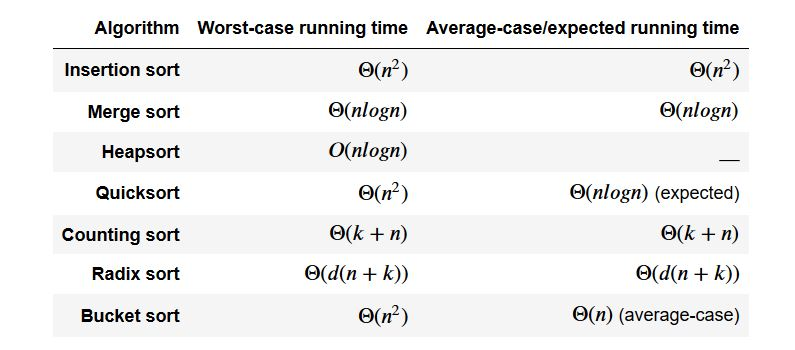
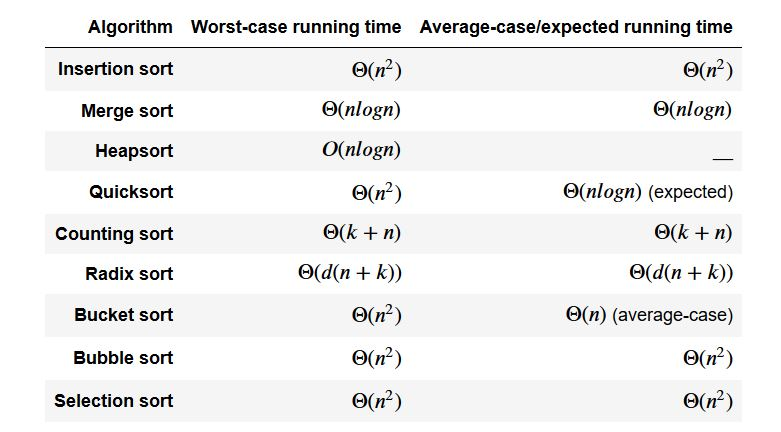
In Progress

diff --git a/Sorting/quicksort.cpp b/Sorting/quicksort.cpp
@@ -1,4 +1,34 @@
-void quickSort(int set[], int styart, int end) {
+include <iostream>
+using namespace std;
+
+//function prototypes
+void quickSort(int[], int, int);
+int partition(int [], int, int);
+void swap(int &, int &);
+
+int main () {
+
+  const int SIZE = 20;
+  int count;
+  int array[SIZE] ={2, 4, 11, 30, 77, 21, 10, 9, 22, 1, 3, 5, 13, 31, 76, 26, 16, 17, 29, 18};
+
+  for (count = 0; count < SIZE; count++) {
+    cout << array[count] << " ";
+  }
+  cout << endl;
+
+  quickSort(array, 0, SIZE - 1);
+
+  for (count = 0; count < SIZE; count++) {
+    cout << array[count] << " ";
+  }
+  cout << endl;
+  return 0;
+}
+
+// quickSort uses quicksort algorithm to sort an int set,
+// from set[start] to set[end]
+void quickSort(int set[], int start, int end) {
   int pivotPoint;
   if (start < end) {
     pivotPoint = partition(set, start, end);  // get pivotPoint
@@ -28,7 +58,7 @@ int partition(int set[], int start, int end) {
 }
 
 //swap function: swap the values found in any two elements of the list
-void swap(int &val1, nt &val2) {
+void swap(int &val1, int &val2) {
   int temp = val1;
   val1 = val2;
   val2 = temp;

diff --git a/Sorting/SelectionSort.cpp b/Sorting/SelectionSort.cpp
@@ -1,0 +1,43 @@
+#include <iostream>
+using namespace std;
+
+void selectionSort(int [], int);
+void displayArray(const int [], int);
+
+int main() {
+  const int SIZE = 10;
+  int vals[SIZE] = {6, 9, 1, 5, 4, 7, 2, 3, 8, 10};
+
+  cout << "Array: \n";
+  displayArray(vals, SIZE);
+
+  selectionSort(vals, SIZE);
+
+  cout << "Selection sort: \n";
+  displayArray(vals, SIZE);
+
+  return 0;
+}
+
+void selectionSort(int arr[], int size) {
+  int startScan, minIndex, minValue;
+  for (startScan = 0; startScan < (size-1); startScan++) {
+    minIndex = startScan;
+    minValue = arr[startScan];
+    for(int index = startScan + 1; index < size; index++) {
+      if (arr[index] < minValue) {
+        minValue = arr[index];
+        minIndex = index;
+      }
+    }
+    arr[minIndex] = arr[startScan];
+    arr[startScan] = minValue;
+  }
+}
+
+void displayArray(const int arr[], int size) {
+  for (int i = 0; i < size; i++) {
+    cout << arr[i] << " ";
+  }
+  cout << endl;
+}

diff --git a/Sorting/BubbleSort.cpp b/Sorting/BubbleSort.cpp
@@ -1,0 +1,42 @@
+#include <iostream>
+using namespace std;
+
+void BubbleSort(int [], int);
+void displayArray(const int [], int);
+
+int main() {
+  int vals[10] = {6, 9, 1, 5, 4, 7, 2, 3, 8, 10};
+
+  cout << "Array: \n";
+  displayArray(vals, 10);
+
+  BubbleSort(vals, 10);
+
+  cout << "Bubble sort: \n";
+  displayArray(vals, 10);
+
+  return 0;
+}
+
+void BubbleSort(int arr[], int size) {
+  bool swap;
+  int temp;
+  do {
+    swap = false;
+    for (int i = 0; i < (size-1); i++) {
+      if (arr[i] > arr[i+1]) {
+        temp = arr[i];
+        arr[i] = arr[i + 1];
+        arr[i + 1] = temp;
+        swap = true;
+      }
+    }
+  } while (swap);
+}
+
+void displayArray(const int arr[], int size) {
+  for (int i = 0; i < size; i++) {
+    cout << arr[i] << " ";
+  }
+  cout << endl;
+}

diff --git a/Sorting/README.md b/Sorting/README.md
@@ -70,9 +70,9 @@ void HeapSort(ItemType values[], int numValues)
 ```
 -----------------------------
 
-### Quicksort
+### QuickSort
 
-QuickSort algorithm uses recursion to effiently sort a list. It can be used to sort lists stored in arrays or linear linked lsts. It sorts a list by dividing it into two sulists. Between the sublists is a selected value known as the pivot.
+The QuickSort algorithm uses recursion to efficiently sort a list. It can be used to sort lists stored in arrays or linear linked lsts. It sorts a list by dividing it into two sulists. Between the sublists is a selected value known as the pivot.
 
 pseudocode :
 ```
@@ -146,6 +146,89 @@ for i = 1 to n
 for i = 0 to n-1
   sort list B[i] with insertion sort
 concatenate the lists B[0], B[1], ..., B[n-1] together in order
+```
+
+-----------------------------
+
+### Bubble sort
+Bubble sort is a way to arrange data in ascending or descending order.
+
+**pseudocode**
+```
+Do
+  Set swap flag to false
+  For count is set to each subscript in array from 0 through the next-to-last subscript
+    If array[count] is greater than array[count + 1]
+      Swap the contents of array[count] and array[count + 1]
+      Set swap flag to true
+    End If
+  End for
+While any elements have been swapped
+```
+
+![Bubble sort](img/BUBBLEsort.JPG)
+
+```C++
+void BubbleSort(int array[], int size) {
+  bool swap;
+  int temp;
+  do {
+    swap = false;
+    for (int count=0; count < (size-1); count++) {
+      if (array[count] > array[count+1]) {
+        temp = array[count];
+        array[count] = array[count+1];
+        array[count+1] = temp;
+        swap = true;
+      }
+    }
+  } while (swap);
+}
+```
+
+-----------------------------
+
+### Selection sort
+Selection sort performs fewer exchanges by moving items immediately to their final position in the array.
+
+**How selection sort works**: The smallest value in the array is located and moved to element 0. Then the next smallest value is located and moved to element 1. This process continues until all of the elements have been placed in their proper order.
+
+Pseudocode:
+```
+For startScan is set to each subscript in array from 0 through the next-to_last subscript
+  Set index variable to startScan
+  Set minIndex variable to startScan
+  Set minValue variable to array[startScan]
+
+  For index is set to each subscript in array from (startScan + 1) through the last subscript
+    If array[index] is less than minValue
+      Set minValue to array[index]
+      Set minIndex to index
+    End If
+  End for
+  Set array[minIndex] to array[startScan]
+  Set array[startScan] to minValue
+End For
+```
+
+![Selection sort](img/SELECTIONsort.JPG)
+
+```C++
+void selectionSort(int arr[], int size) {
+  int startScan, minIndex, minValue;
+  for (startScan = 0; startScan < (size-1); startScan++) {
+    minIndex = startScan;
+    minValue = arr[startScan];
+    for(int index = startScan + 1; index < size; index++) {
+      if (arr[index] < minValue) {
+        minValue = arr[index];
+        minIndex = index;
+      }
+    }
+    arr[minIndex] = arr[startScan];
+    arr[startScan] = minValue;
+  }
+}
 ```
 
 -----------------------------
